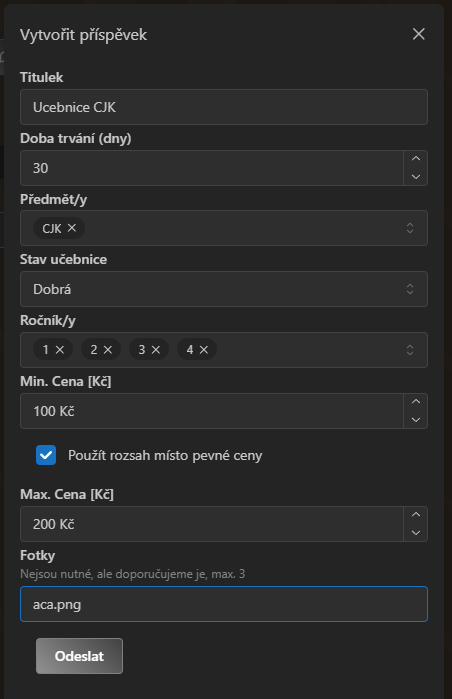
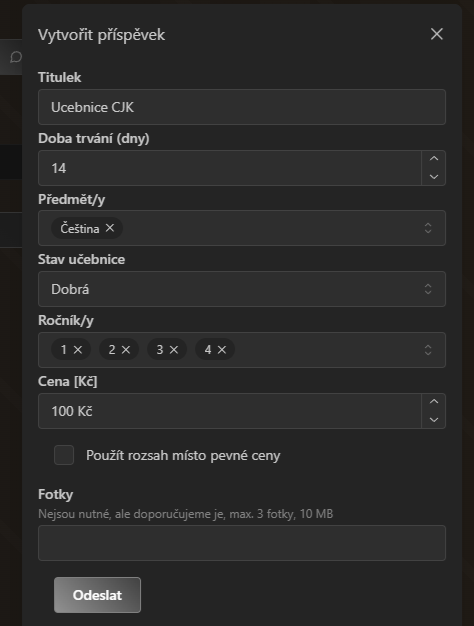
Updated user guide with visuals

diff --git a/frontend/public/guide.html b/frontend/public/guide.html
@@ -60,7 +60,7 @@
 
     img.i {
       float: right;
-      width: 500px;
+      max-width: 500px;
     }
   </style>
 </head>
@@ -98,6 +98,7 @@
       <li>Tlačítko pro načítání dalších příspěvků</li>
       <li>Tlačítko pro přidání nového příspěvku</li>
     </ol>
+    <img src="img/newpost.png" alt="Pozice políček formuláře pro vytváření příspěvků" class="i" style="height: 500px; width: auto; position: relative; bottom: 100px;">
     <h3>Přispěvky</h3>
     <p>Příspěvky slouží jako inzeráty oznamující o prodeji použité učebnice. Součástí takového příspěvku je:</p>
     <ul>
@@ -121,6 +122,7 @@
       <li>Upravit své kontaktní informace</li>
       <li>Smazat svůj účet (a všechny vaše příspěvky)</li>
     </ol>
+    <img src="img/myacc.png" alt="Pozice prvků na stránce uživatele">
     <h3>Moje příspěvky</h3>
     <p>Uživatel má možnost spravovat své vlastní příspěvky. Na danou stránku se opět dostane přes menu, tlačítko <b>Moje příspěvky</b>. Jsou zde možné následující úkony:</p>
     <ol>
@@ -133,6 +135,7 @@
     <h3>Domovská stránka</h3>
     <p>Domovská stránka se pro administrátora příliš neliší od řadového uživatele. Existuje zde však možnost odebírat nevhodné příspěvky.</p>
     <p>Pro odebrání příspěvku:</p>
+    <img src="img/admindropdown.png" alt="Menu admina" class="i">
     <ol>
       <li>U příspěvku rozklikněte tři tečky</li>
       <li>Zvolte <b>Odebrat</b></li>
@@ -155,6 +158,7 @@
       <li>Blacklist - Smaže uživatelská účet a permanentně zakáže uživateli přístup na platformu. (Používat jen ze závažných důvodů)</li>
       <li>Změnit na ... - Možnost měnit roli uživatele (přidat, či odebrat administrátorská oprávnění)</li>
     </ul>
+    <img src="img/usermgmt.png" alt="Pozice prvků na stránce správy uživatelů">
     <h3>Blacklist</h3>
     <p>Tato stránka podává krátký přehled o permanentně zakázaných uživatelích. Zákaz je vytvořen na Microsoft Id jejich účtu.</p>
     <h3>Předměty</h3>
@@ -192,6 +196,7 @@
       <li>Button to load more posts</li>
       <li>Button to add a new post</li>
     </ol>
+    <img src="img/newpost.png" alt="Pozice políček formuláře pro vytváření příspěvků" class="i" style="height: 500px; width: auto; position: relative; bottom: 100px;">
     <h3>Posts</h3>
     <p>Posts serve as advertisements announcing the sale of a used textbook. Such a post includes:</p>
     <ul>
@@ -215,6 +220,7 @@
       <li>Edit contact information</li>
       <li>Delete your account (and all your posts)</li>
     </ol>
+    <img src="img/myacc.png" alt="Pozice prvků na stránce uživatele">
     <h3>My Posts</h3>
     <p>The user has the option to manage their own posts. You can access this page again through the menu, using the <b>My Posts</b> button. The following actions are available:</p>
     <ol>
@@ -227,6 +233,7 @@
     <h3>Home Page</h3>
     <p>The home page for an administrator does not differ much from that of a regular user. However, there is an option to remove inappropriate posts.</p>
     <p>To remove a post:</p>
+    <img src="img/admindropdown.png" alt="Menu admina" class="i">
     <ol>
       <li>Click the three dots on the post</li>
       <li>Select <b>Remove</b></li>
@@ -249,6 +256,7 @@
       <li>Blacklist - Deletes the user account and permanently bans the user from the platform (Use only for serious reasons)</li>
       <li>Change to ... - Option to change the user's role (grant or remove administrator privileges)</li>
     </ul>
+    <img src="img/usermgmt.png" alt="Pozice prvků na stránce správy uživatelů">
     <h3>Blacklist</h3>
     <p>This page provides a brief overview of permanently banned users. The ban is created based on the Microsoft ID of their account.</p>
     <h3>Subjects</h3>
